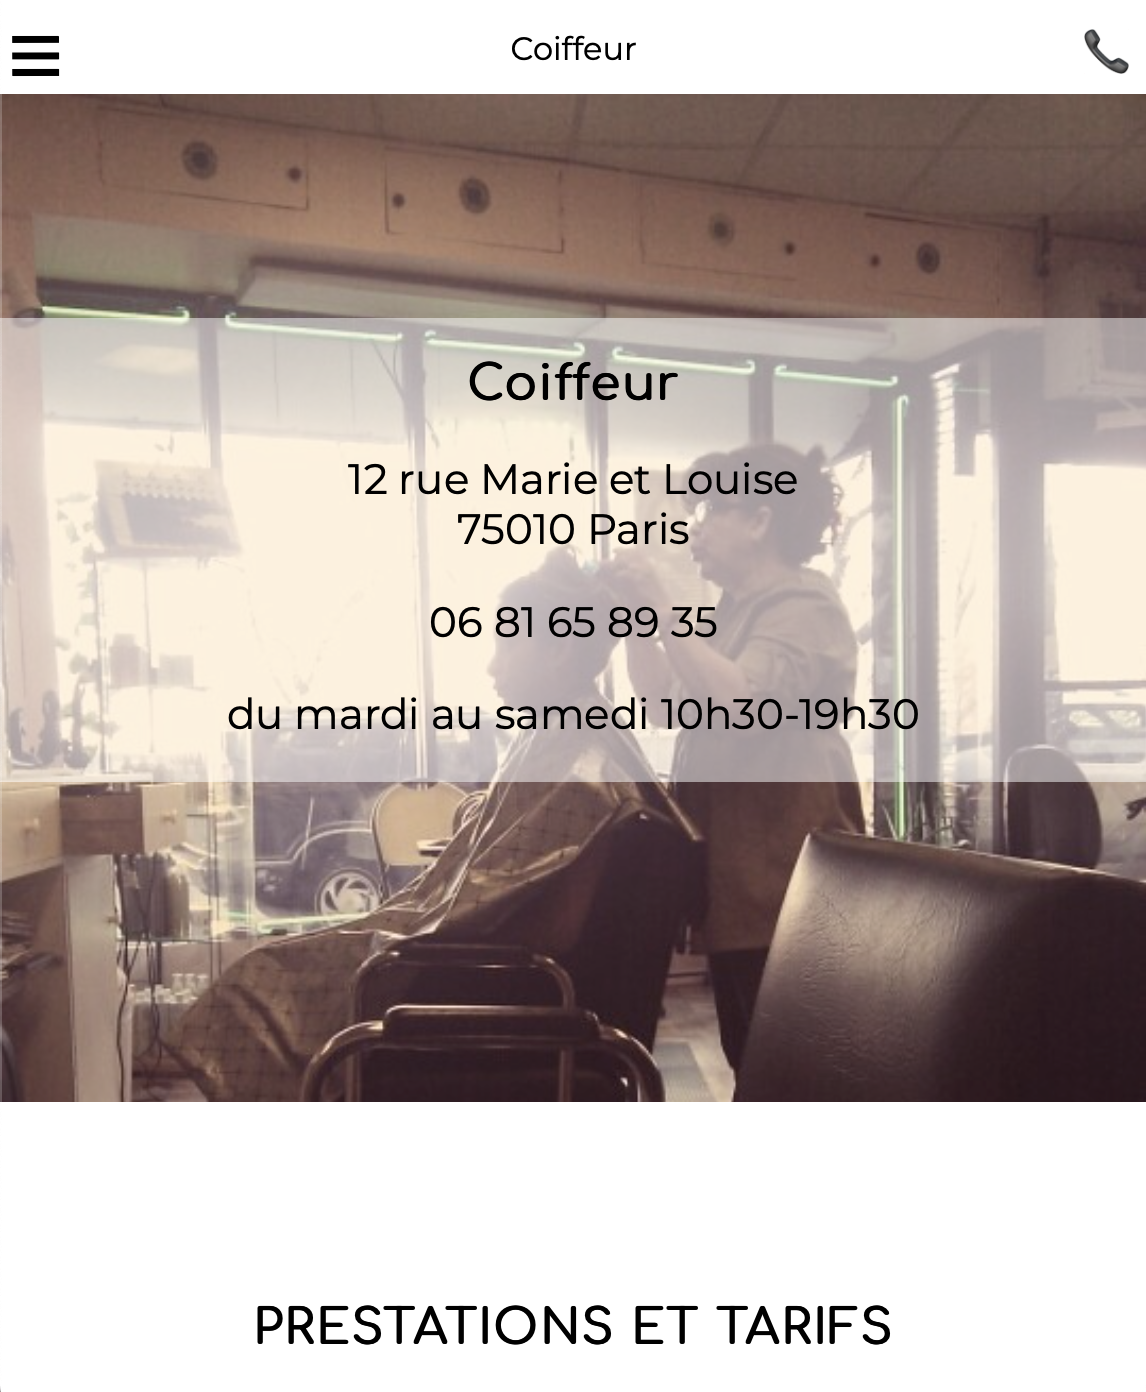
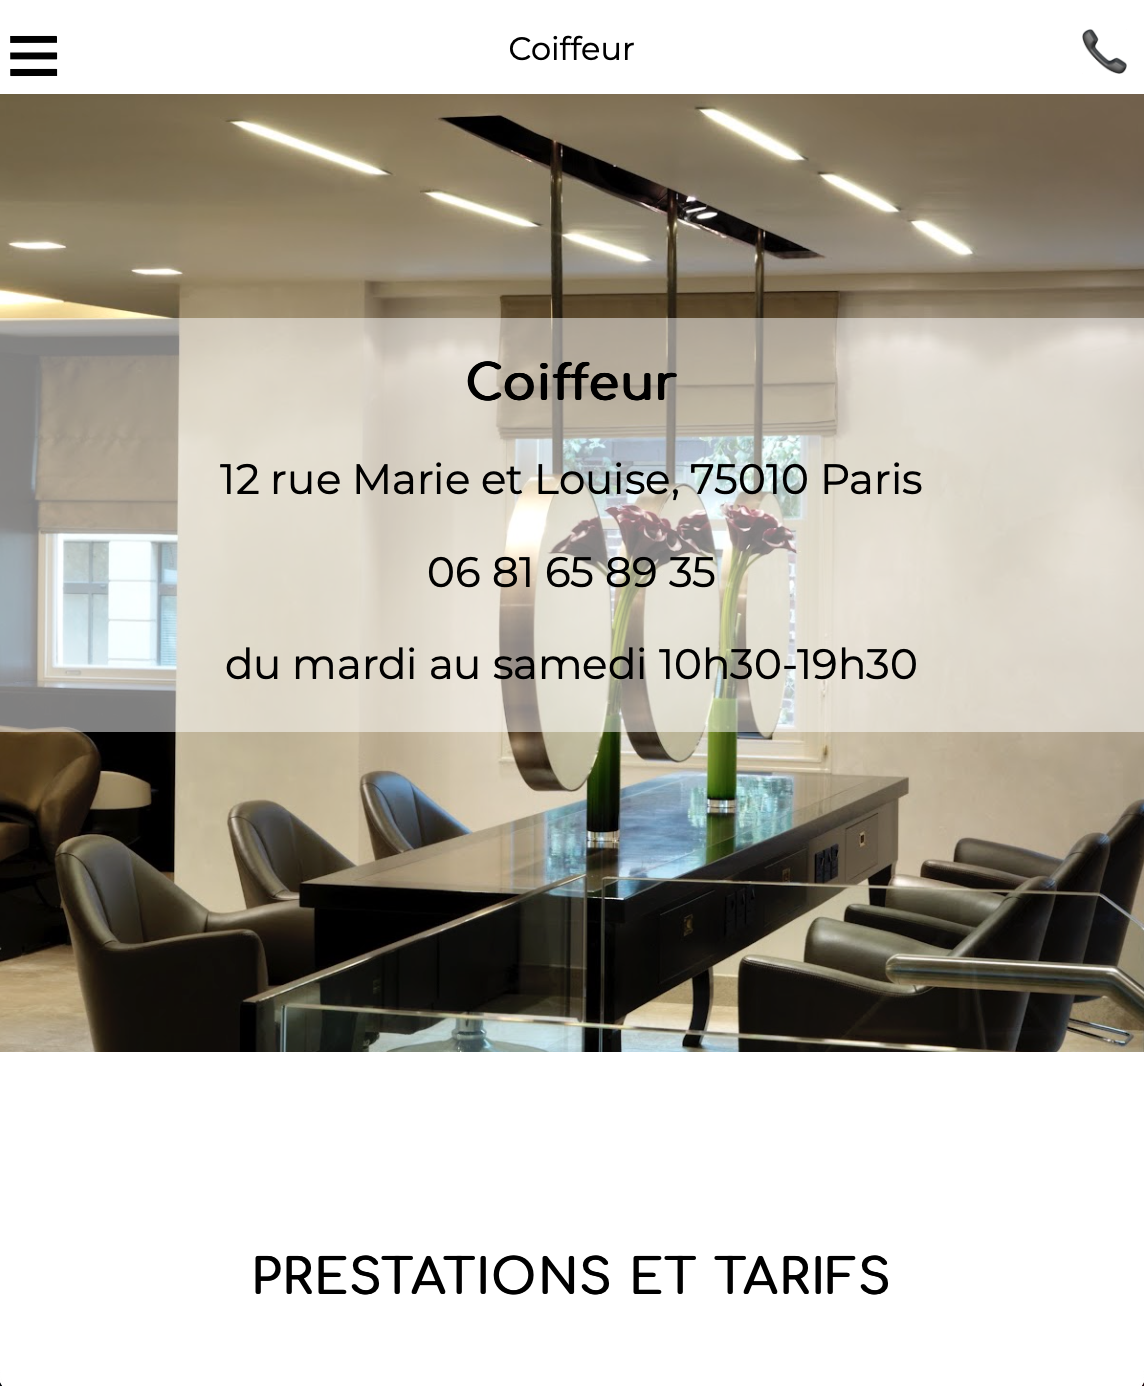
Portfolio tweaks
chenged coiffeur thumbnail to match
aligned items in flex

diff --git a/index.html b/index.html
@@ -151,8 +151,7 @@
 									</p>
 							</a>
 						</div>
-						<br>
-						<br>
+						
 						<div class="portfolio">
 							<a href="portfolio/coiffeur/index.html" >
 								<img class="image fit" src="images/coiffeur.png" alt="Hairdresser site: Coiffeur">
@@ -162,8 +161,7 @@
 									</p>
 							</a>
 						</div>
-						<br>
-						<br>
+						
 						<div class="portfolio">
 							<a href="portfolio/AI-Art/index.html">
 								<img class="image fit" src="images/AI.png" alt="Exploration of AI art">
@@ -173,8 +171,7 @@
 									</p>
 							</a>
 						</div>
-						<br>
-						<br>
+						
 						<div class="portfolio">
 							<a  href="portfolio/artist/index.html">
 								<img class="image fit" src="images/Artist.png" alt="Artist site: Mary Segal">

diff --git a/assets/css/main.css b/assets/css/main.css
@@ -2322,6 +2322,7 @@ input, select, textarea {
 		margin: 2em;
 		padding: 5px;
 		width: 15em;
+		
 	}
 	
 		.portfolio .image {
@@ -2782,7 +2783,8 @@ input, select, textarea {
 		}	
 
 		.button.subtle:hover {
-			color: var(--super-light) !important;
+			color: #ffffff !important;
+			background-color: var(--link);
 		}
 
 		input[type="submit"].disabled, input[type="submit"]:disabled,
